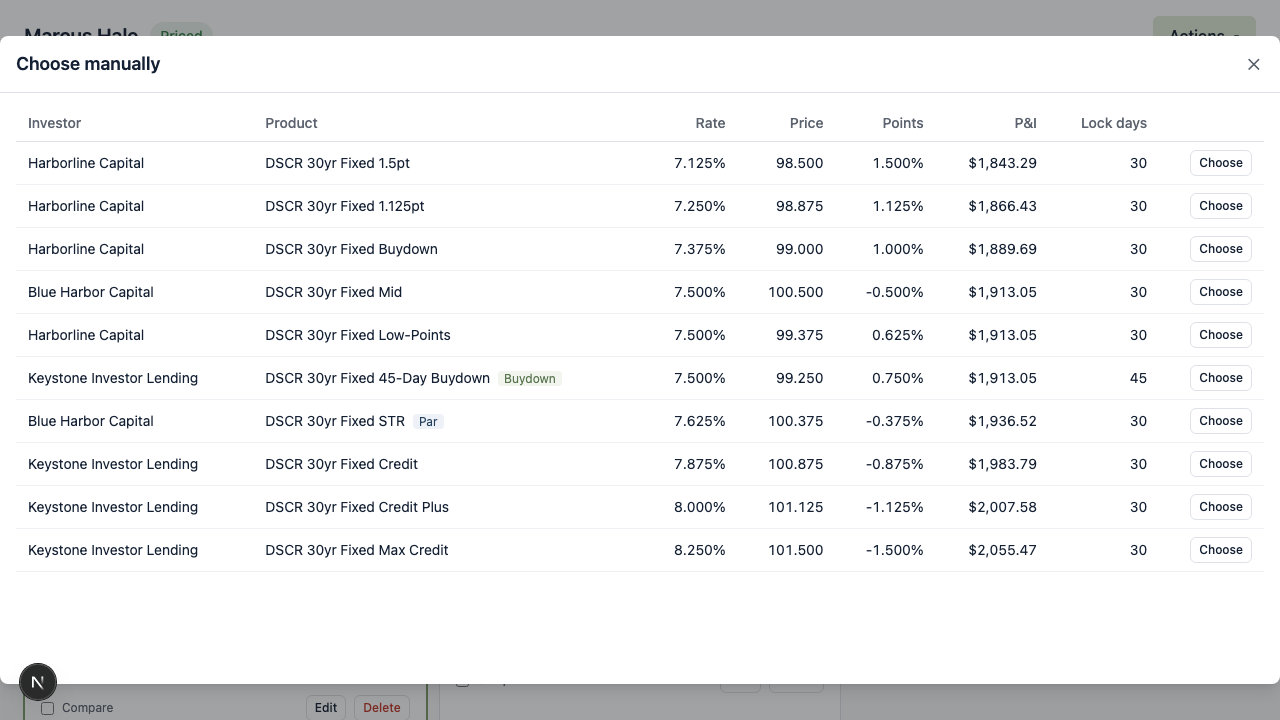
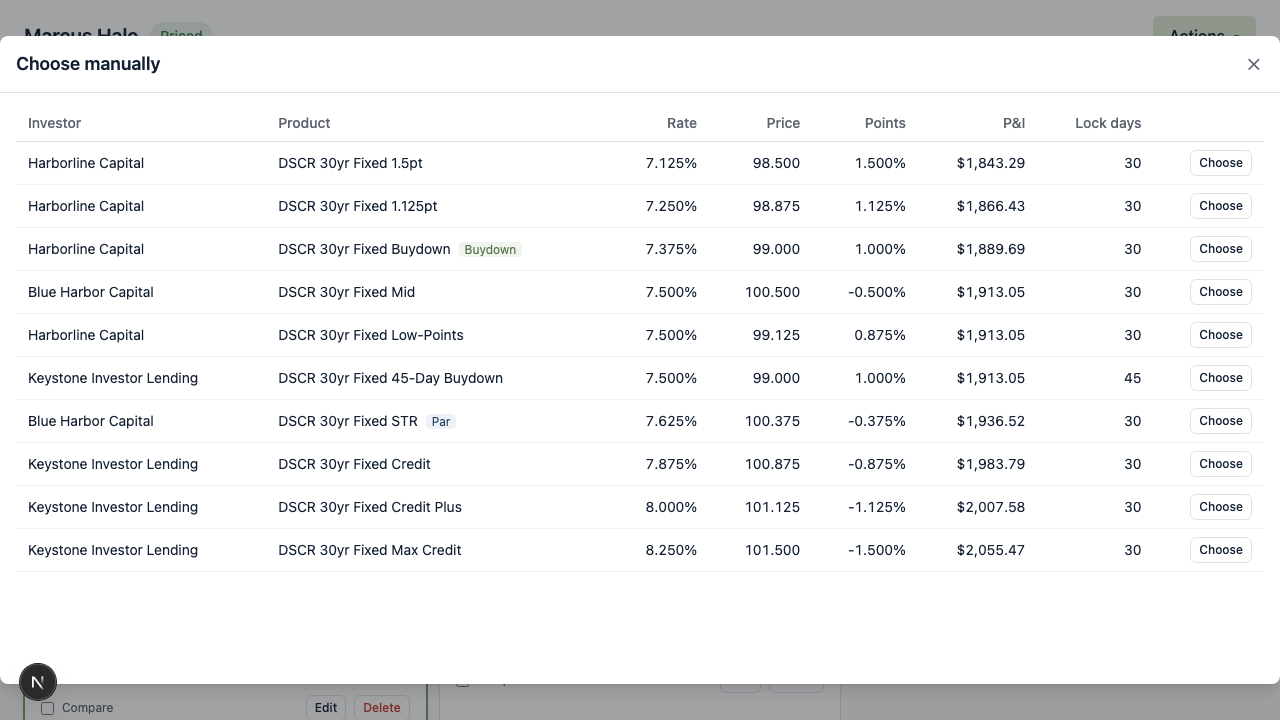
CQ-018: docs: PR review round 1 in post-dev and Decisions 14-17

diff --git a/docs/backlog/CQ-018-quote-builder/post-dev.md b/docs/backlog/CQ-018-quote-builder/post-dev.md
@@ -68,6 +68,54 @@ Backend changes:
 | Major (found in e2e) | Group `<section aria-label="At DSCR 1.00">` made CQ-017's `getByLabel('DSCR')` (a substring match) resolve to 3 elements whenever the builder loaded first | Groups carry `data-testid="quote-group"` and no accessible name, so CQ-017's spec is untouched. The full `e2e/lo-console` run after a fresh `make demo-reset` passes 27/27. |
 | Note | Reprice updates Par/Buydown quotes in place even when a draft package names them | By design. A sent package reads its frozen `quote_package_versions` snapshot, so borrowers are unaffected. |
 
+## PR review round 1 (fresh stage-6 review, Opus)
+
+| # | Severity | Finding | Resolution | Evidence |
+| --- | --- | --- | --- | --- |
+| M1 | Major | The ladder's Buydown (7.375 @ 1.000) now lands in every investment persona's "At DSCR 1.00" group, and `apply_send_fixture` sent every quote id, so Luis Romero's seeded package had 4 options with two "Buydown"s (strict `getByRole("radio", {name: /buydown/i})` in `report-option-switch.spec.ts`) | **Verified** (seed test failed with 4 ids). Fixed by capping the seeded package at the recommended quote + up to 2 alternatives in group order (CQ-019's default-draft rule), plan.md Decision 14. Bucket-scoping was rejected because Marcus's assumed group shares `ONE_TO_1_25` with every other investment persona | `seed/tests/test_persona_statuses.py::test_seeded_packages_are_recommended_plus_two`; after `make demo-reset`: Luis = Par 7.625 (rec.), Buydown 7.375, Par 7.250; Grace = Par 7.500 (rec.), Buydown 7.375. Full `e2e/lo-console` + `e2e/borrower-portal` 44/44 and cross-app 1/1 |
+| M2 | Major | Save & AutoQuote / Re-price 500 on an empty grid (bare `ValueError`), and a PUT had already committed `stale=True` | `NoEligibleProductsError` → 422 `no_eligible_products` ("No products at 90% LTV"). PUT, autoquote, reprice and create price before committing; failures roll back (Decision 15) | `test_review_round1.py`: `test_put_with_empty_grid_is_422_and_changes_nothing` (Marcus at 10% down: 422, quotes and inputs unchanged), `test_reprice_and_autoquote_with_empty_grid_are_422`, `test_create_scenario_with_empty_grid_is_422` |
+| M3 | Major | The grid's "Buydown" tag (mock `is_buydown_rate`: Keystone 45-Day) differed from the Buydown card (Harborline 7.375) | `get_products` re-tags Par and Buydown with `select_par_and_buydown` (Decision 16); `__fixtures__/products-marcus-hale.json` updated and checked equal to the live grid | `test_grid_tags_match_autoquote` (Marcus, Sam Reed, Tom Brandt, every group) |
+| 1 | Minor | The "more than 0.500 from par" claim was wrong: Low-Points (99.375) beat Blue Harbor Thin (100.750) in `BELOW_1_00` | Low-Points → 99.125, Keystone 45-Day → 99.000 (was 99.250, a tie with Thin); every ladder row is now > 0.750 from par. Claim corrected in `rate_sheet.yaml` and Decision 2 | `test_ladder_rows_never_beat_a_bucket_par`, `test_below_1_00_par_is_blue_harbor_thin_for_ltr`; par table below |
+| 2 | Minor | "Choose manually" always PUT and marked every quote stale | Server: stale + `scenario.updated` only when the normalized stored inputs change. Client: the overlay skips the PUT on "Choose manually" when the inputs equal the saved scenario | `test_put_without_changes_keeps_quotes_fresh`; Vitest "Choose manually lists every product…" (no PUT) and "Choose manually after an input change saves the inputs first" |
+| 3 | Minor | Re-price silently deleted leftover auto quotes, including a recommended one | `quotes.repriced` and `scenario.autoquoted` payloads carry `deleted_quote_ids` and `recommendation_cleared` | `test_reprice_logs_deleted_auto_quotes` |
+| 4 | Minor | Races: an override committing mid-reprice could be overwritten with `stale=False`; a double autoquote could insert two Pars | `lock_application` (`SELECT … FOR UPDATE` on `applications`, `applications/locks.py`) at the start of reprice, autoquote, PUT, recommend, delete, manual pick and the CQ-017 override/revert routes | `test_every_builder_write_locks_the_application_row` (captures the SQL of each route; a true two-connection race test isn't feasible inside the rollback-per-test fixture) |
+| 5 | Minor | The manual pick trusted the client's product row | Matched on `(investor, product, lock)` against a fresh grid; rate/points come from the server row; 422 `product_not_offered` otherwise. `test_manual_quote.py` (CQ-013) now picks a real grid row | `test_manual_pick_uses_server_row` (a tampered 3.000% rate is saved as the grid's 8.250%) |
+| 6 | Minor | PUT validation | A primary PUT with `dscr_bucket` or a PPP 422s with `details.field` | `test_put_422s` (bad down payment, primary `dscr_bucket`, primary PPP, `missing_field` Occupancy) |
+| 7 | Minor | The same-bucket note vanished when the LO added a scenario | The note belongs to the pipeline's collapsed group: the earliest `created_at` batch, when it holds one `ONE_TO_1_25` scenario whose actual DSCR is in that bucket | `test_same_bucket_note_survives_an_added_scenario` |
+| e2e | Found while verifying | Running `e2e/lo-console` and `e2e/borrower-portal` in one invocation 401'd every report spec: `flushLoginRateLimit` ran `flushdb`, dropping the borrower sessions `global-setup.ts` saved | `flushLoginRateLimit` now deletes only the `rl:*` rate-limit keys | The combined run: 44/44 |
+| e2e | Trivial follow-up fixed | AC3's `oldIds` held `priced_at` values, and the spec never checked 25% | Renamed `oldPricedAt`; the spec reopens the overlay and checks the saved down payment is 25 | `quote-builder.spec.ts` AC3 |
+
+### Par per seeded persona, before and after (query over `quotes` after `make demo-reset`)
+
+"Before" is this branch before round 1 (ladder at 99.375/99.250); "after" is with the repriced rows. Par is identical for every persona: no persona is priced in `BELOW_1_00` without STR, the only case the old Low-Points row changed (Marcus is STR, so his `BELOW_1_00` par is Blue Harbor STR, 0.375 from par). `test_below_1_00_par_is_blue_harbor_thin_for_ltr` covers the non-STR case.
+
+| Persona | Group (bucket / down) | Par before | Par after | Buydown after |
+| --- | --- | --- | --- | --- |
+| Marcus Hale | ONE_TO_1_25 / 20% | Blue Harbor STR 7.625 | Blue Harbor STR 7.625 | Harborline 7.375 |
+| Marcus Hale | BELOW_1_00 / 20% | Blue Harbor STR 7.625 | Blue Harbor STR 7.625 | Harborline 7.375 |
+| Kathleen McReynolds | ONE_TO_1_25 / 25% | Blue Harbor Mid 7.500 | Blue Harbor Mid 7.500 | Harborline 7.375 |
+| Sam Reed | ONE_TO_1_25 / 25% | Blue Harbor STR 7.625 | Blue Harbor STR 7.625 | Harborline 7.375 |
+| Sam Reed | GE_1_25 / 25% | Sterling DSCR 7.250 | Sterling DSCR 7.250 | Sterling 6.875 |
+| Tom & Lisa Brandt | ONE_TO_1_25 / 25% | Blue Harbor Mid 7.500 | Blue Harbor Mid 7.500 | Harborline 7.375 |
+| Grace Kim | ONE_TO_1_25 / 25% | Blue Harbor Mid 7.500 | Blue Harbor Mid 7.500 | Harborline 7.375 |
+| Luis Romero | ONE_TO_1_25 / 25% | Blue Harbor STR 7.625 | Blue Harbor STR 7.625 | Harborline 7.375 |
+| Luis Romero | GE_1_25 / 25% | Sterling DSCR 7.250 | Sterling DSCR 7.250 | Sterling 6.875 |
+| Priya Nair | primary / 20% | Sterling Conv 6.500 | Sterling Conv 6.500 | Sterling 6.125 |
+| Daniel Ortiz | primary / 5% | Sterling Conv 6.500 | Sterling Conv 6.500 | Sterling 6.125 |
+| Daniel Ortiz | primary / 20% | Sterling Conv 6.500 | Sterling Conv 6.500 | — |
+
+### Round 1 test log
+
+| Check | Command | Result |
+| --- | --- | --- |
+| Backend | `make test` (pytest backend) | 497 passed |
+| Seed | `make test` (pytest seed) | 31 passed |
+| Frontend | `make test` (`pnpm -r run test`) | lo-console 110, ui 141, borrower-portal 84, api-client 2 |
+| Lint / types | `make lint` | exit 0 |
+| react-doctor | `npx react-doctor -y --blocking error` | exit 0 (78/100, warnings only) |
+| E2E | fresh `make demo-reset`, API/worker/LO/portal on slot 8, `pnpm exec playwright test e2e/lo-console e2e/borrower-portal --workers=1` | 44 passed |
+| E2E cross-app | `pnpm exec playwright test --project=cross-app` | 1 passed |
+
 ## How to test manually
 
 1. `bash scripts/worktree-env.sh 8`, `make demo-reset`, then start the API on 8108, `make worker` and the LO console on 3108.
@@ -90,3 +138,9 @@ Backend changes:
 - `quotes.points` is `Numeric(6,3)` as a fraction, which loses precision (0.875 pts is stored as 0.009). Cards use the engine-derived value. A migration to `Numeric(8,5)` would fix the column itself.
 - The OB request builder uses `applications.requested_price`, not the scenario's own purchase price, so a price edit in the overlay changes the engine numbers but not the mock grid's loan-amount-based rows. This is harmless with the current mock (price-agnostic rate sheet).
 - The mock adapter ignores `DesiredLockDays`, so overlay lock-days changes are stored and sent but don't change the demo grid.
+- (PR review round 1) The "a manual quote left the grid" state keeps the card stale with no banner copy of its own; CQ-019's Send readiness should explain it ("this quote's product is no longer offered").
+- (PR review round 1) The card's display scaling (`rate_pct`, `points_pct`, `note_rate` at percent/fraction scale) lives in the builder service; move it into `quote_engine` helpers.
+- (PR review round 1) `quote-builder-no-money-math.test.ts` scans only the feature's top-level files and misses `+= Number(...)`; recurse into subfolders and catch compound assignment.
+- (PR review round 1) The e2e specs don't revert their writes in `afterAll` (AC3's 25% down, AC5's recommendation, AC8's tax override); a rerun needs `make demo-reset`. Needs an authenticated API helper, so not trivial.
+- (PR review round 1) `RepriceResponse.priced_at` is the response time, not the quotes' own `priced_at` (they differ by milliseconds); return the quotes' value or drop the field.
+- (PR review round 1) `compareIds` in the builder isn't pruned after a reload deletes a compared quote.

diff --git a/docs/backlog/CQ-018-quote-builder/plan.md b/docs/backlog/CQ-018-quote-builder/plan.md
@@ -7,7 +7,7 @@ Written by the agent in stages 1–3. Every acceptance criterion maps to a test 
 | # | Type | Item | Resolution |
 | --- | --- | --- | --- |
 | 1 | Decision | Spec route names vs. CQ-013's built routes | Decided: keep CQ-013's built routes as they are (`POST /applications/{id}/scenarios`, `GET /scenarios/{id}/products`, `POST /scenarios/{id}/autoquote`, `POST /scenarios/{id}/quotes`, all under `/api/v1`). Manual pick sends the full product row (`{product, label}`) rather than `{product_row_id}`, because the mock grid has no persisted row ids. Added the missing ones: `GET /applications/{id}/scenarios`, `PUT /scenarios/{id}`, `DELETE /quotes/{id}`, `POST /quotes/{id}/recommend`, `POST /applications/{id}/reprice`. |
-| 2 | Decision | AC1 buydown risk: no Buydown candidate for DSCR buckets `BELOW_1_00` and `ONE_TO_1_25`, and Marcus's grid had only 2 rows (AC4 needs ≥ 8) | Decided: added 8 bucket-agnostic DSCR rate-sheet rows to `seed/providers/rate_sheet.yaml` (Harborline Capital and Keystone Investor Lending): a ladder from 1.5 points to a 1.5-point credit, with 5-year PPP, FICO ≥ 680 and LTV ≤ 80. Each price is more than 0.500 from par, so no persona's par row changes, and neither do its DSCR bucket or end status (verified). The Buydown is 7.375% at 1.000 point. The `8 <= rows <= 15` bound in `seed/tests/test_provider_rows_seeded.py` is now `<= 25`. No persona special-casing in code. |
+| 2 | Decision | AC1 buydown risk: no Buydown candidate for DSCR buckets `BELOW_1_00` and `ONE_TO_1_25`, and Marcus's grid had only 2 rows (AC4 needs ≥ 8) | Decided: added 8 bucket-agnostic DSCR rate-sheet rows to `seed/providers/rate_sheet.yaml` (Harborline Capital and Keystone Investor Lending): a ladder from 1.5 points to a 1.5-point credit, with 5-year PPP, FICO ≥ 680 and LTV ≤ 80. **Corrected in PR review round 1:** each price is more than **0.750** from par (the widest bucket-specific par row is Blue Harbor Thin at 100.750 in `BELOW_1_00`), so no bucket's par row changes. The original claim ("more than 0.500") was wrong: Low-Points at 99.375 beat Thin and moved a non-STR `BELOW_1_00` par from 7.875 to 7.500. Low-Points is now 99.125 and the Keystone 45-Day Buydown 99.000. No seeded persona's par changed either way (Marcus is STR, so his `BELOW_1_00` par is Blue Harbor STR); see post-dev.md "PR review round 1" for the per-persona query. The Buydown is 7.375% at 1.000 point. The `8 <= rows <= 15` bound in `seed/tests/test_provider_rows_seeded.py` is now `<= 25`. No persona special-casing in code. |
 | 3 | Decision | AC7: Daniel Ortiz (5% down in LOS) got one group, because `auto_price` always priced at the 20%/25% default and ignored the LOS down payment | Decided: `import_from_los` writes a `down_payment_pct` `field_values` row (source `encompass`) when the loan file has one. `create_default_scenarios` reads it when no down payment is passed, and falls back to the old defaults otherwise. Two small edits outside the owned files (`applications/service.py`, `pricing/scenarios/service.py`). Effect: Daniel gets 5% (Par + Buydown) and 20% (Par). Marcus is priced at his LOS 20% (DSCR 0.69, still `BELOW_1_00`, 2 groups), which makes AC3's "edit to 25% down" an actual change. Persona end statuses are unchanged. |
 | 4 | Decision | Save & AutoQuote semantics (AC3 says "replaces") | Decided: `POST /scenarios/{id}/autoquote` now replaces the scenario's Par/Buydown quotes instead of appending. It first refreshes the scenario's enrichment-owned inputs (tax, insurance, HOA, rent) from `field_values` and prices, so a pricing error leaves the quotes untouched. Then it updates the existing Par/Buydown rows **in place** with the new pick (insert if missing; a leftover or duplicate auto quote is deleted unless a quote package names it). Ids stay stable, so the recommendation and any `quote_packages` reference survive (a delete would violate the `quote_packages.recommended_quote_id` FK). Manual picks in that scenario are re-priced: the same investor/product row from the fresh grid, or the same rate/points when that row is gone. `DELETE /quotes/{id}` returns 409 for a quote named by a package. |
 | 5 | Decision | Reprice (AC8) | Decided: `POST /applications/{id}/reprice` runs Decision 4's replace for every scenario of the application. It keeps each scenario's LO inputs and assumed DSCR bucket, clears `stale`, and sets `priced_at = now` on every quote. It writes one `quotes.repriced` activity event. |
@@ -19,6 +19,10 @@ Written by the agent in stages 1–3. Every acceptance criterion maps to a test 
 | 11 | Decision | Recommend | Decided: `POST /quotes/{id}/recommend` sets `applications.recommended_quote_id` (a single column, so there is only ever one) and writes a `quote.recommended` activity event. Starring the already-recommended quote again is a no-op (no un-recommend route; the spec lists none). `DELETE /quotes/{id}` nulls the column when it pointed at the deleted quote, and writes `quote.deleted`. |
 | 12 | Decision | Compare table | Decided: `ComparisonTable` (`packages/ui`) takes the full `ReportOption` view model (hero, cashflow, …), which a quote card does not have. `CompareTable.tsx` reuses its exact rows (Rate, Points, Down payment, Prepayment penalty†, Monthly payment, Cash to close, Monthly cashflow†, DSCR†; † investment only) against the card read model. |
 | 13 | Decision | PUT of an Aisha-style unpriceable app | Decided: every write route runs `ensure_priceable` first, so a missing field returns 422 with nothing written. For Aisha (no scenarios, since the pipeline stopped), the overlay's Add path hits `POST .../scenarios` → 422 → "Cannot price: missing Occupancy" with a link to `/applications/{id}/property`. |
+| 14 | Decision (PR review M1) | The ladder's Buydown also lands in every investment persona's "At DSCR 1.00" group, so Luis Romero's seeded package had 4 options with two "Buydown"s (the portal's `getByRole("radio", {name: /buydown/i})` is strict) | Decided: cap the seeded (fixture-layer) package at the recommended quote plus up to 2 alternatives, in group order (`seed/loader.py` `SEEDED_PACKAGE_MAX = 3`), which is CQ-019's default-draft rule. Bucket-scoping the Buydown rows was rejected: Marcus's assumed group is `ONE_TO_1_25`, the same bucket as every other investment persona's assumed group, so AC1's 4 quotes need a Buydown in exactly the bucket Luis and Grace share. Result: Luis gets Par 7.625 (recommended), Buydown 7.375, Par 7.250; Grace gets Par 7.500, Buydown 7.375. |
+| 15 | Decision (PR review M2) | Empty grid (investment LTV > 80, primary LTV > 97) returned 500, and a PUT had already committed `stale=True` | Decided: `select_par_and_buydown` raises `NoEligibleProductsError` (422 `no_eligible_products`, "No products at 90% LTV"; also a `ValueError` for old callers). PUT, autoquote, reprice and create price before committing; a failure rolls back everything the request flushed. |
+| 16 | Decision (PR review M3) | The grid's "Buydown" tag came from the mock's `is_buydown_rate`, which differs from AutoQuote's rule | Decided: `GET /scenarios/{id}/products` recomputes both tags with `select_par_and_buydown` (`tag_par_and_buydown`). |
+| 17 | Decision (PR review minors) | PUT staleness, reprice logging, races, manual pick trust, PUT validation, same-bucket note | Decided: a PUT marks quotes stale (and logs `scenario.updated`) only when the normalized stored inputs change, and the overlay skips the PUT on "Choose manually" when nothing changed. Reprice/autoquote events carry `deleted_quote_ids` and `recommendation_cleared`. Every builder write, the manual pick and the CQ-017 override/revert routes start with `SELECT … FOR UPDATE` on the application row (`applications/locks.py`). A manual pick is matched on `(investor, product, lock)` against a fresh grid and priced from the server row (422 `product_not_offered` otherwise). A primary PUT with `dscr_bucket` or a PPP is a 422 naming the field. The same-bucket note belongs to the pipeline's collapsed group (the earliest `created_at` batch with one scenario), not to "the app has one group". |
 
 No big gaps.
 
